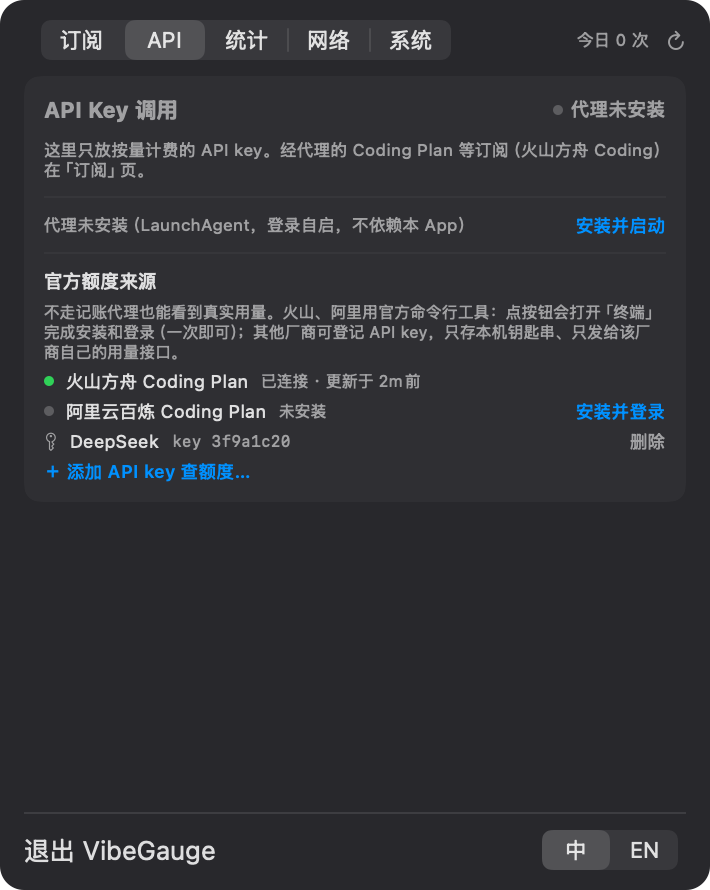
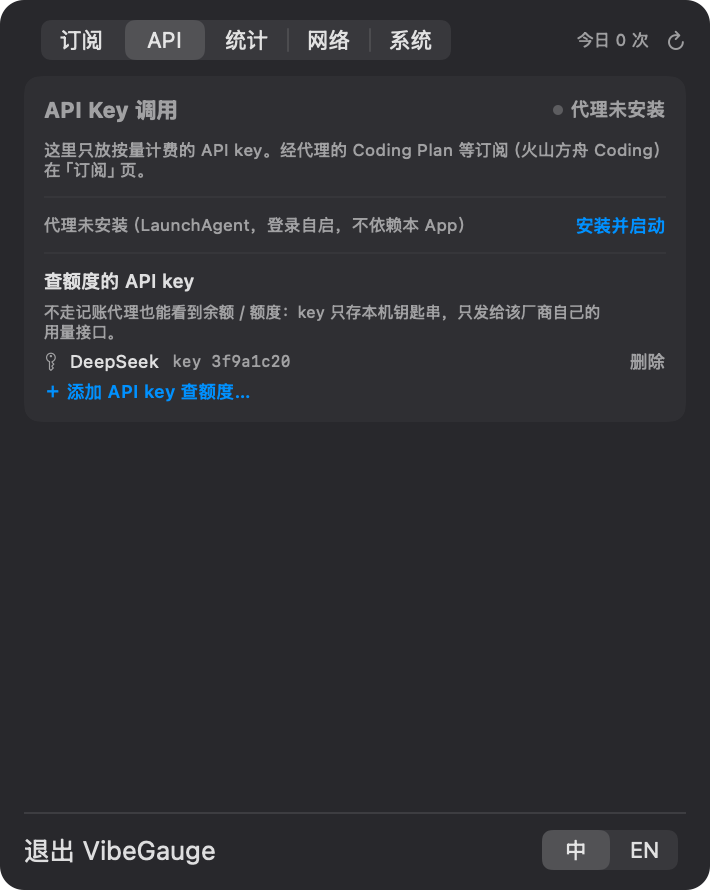
fix: Coding Plan official-CLI rows live on the Plans tab; API tab keeps key registration
Plan rows show only when a matching plan card exists or the CLI is
installed; otherwise a single link reveals them.

Changed region(s): [[0.062, 0.3337, 0.9296, 0.5461], [0.062, 0.3034, 0.2789, 0.3337], [0.8056, 0.4551, 0.9296, 0.5157]]

diff --git a/Sources/DashboardView.swift b/Sources/DashboardView.swift
@@ -188,6 +188,7 @@ public struct DashboardView: View {
 
     /// 截图 / 预览用：只显示灌进来的演示数据，不启动实时刷新 —— 读不到本机任何真实用量（tools/screenshots.swift）
     private var isDemo = false
+    @State private var showAllPlanSources = false
 
     init(demo report: ScanReport, history: UsageHistory.Snapshot, network: NetworkSnapshot, drillDown: String? = nil) {
         self.init(store: ReportStore(report), settings: PanelSettings(autoClean: true, launchAtLogin: true), actions: PanelActions())
@@ -715,6 +716,8 @@ public struct DashboardView: View {
                 }
             }
 
+            planSourceRows
+
             if !report.pending.isEmpty {
                 Divider().opacity(0.35)
                 pendingSection(report.pending)
@@ -982,7 +985,7 @@ public struct DashboardView: View {
             }
 
             Divider().opacity(0.35)
-            officialQuotaRows
+            keySourceRows
         }
         .padding(10)
         .background(Color.secondary.opacity(0.06))
@@ -1091,18 +1094,17 @@ public struct DashboardView: View {
         .cornerRadius(8)
     }
 
-    /// 官方额度来源：不经代理也能看到订阅 / 余额的真值
-    private var officialQuotaRows: some View {
-        VStack(alignment: .leading, spacing: 4) {
-            Text(L("官方额度来源", "Official quota sources")).font(.system(size: 9.5, weight: .medium))
-            Text(L("不走记账代理也能看到真实用量。火山、阿里用官方命令行工具：点按钮会打开「终端」完成安装和登录（一次即可）；其他厂商可登记 API key，只存本机钥匙串、只发给该厂商自己的用量接口。",
-                   "See real usage without the proxy. Volcengine and Alibaba use their official CLIs: the button opens Terminal to install and sign in (once). For other providers, add an API key: it stays in your Keychain and goes only to that provider's own usage endpoint."))
-                .font(.system(size: 8)).foregroundColor(.secondary).fixedSize(horizontal: false, vertical: true)
-            ForEach(OfficialCLI.allCases, id: \.self) { c in
-                let st: OfficialQuota.CLIState = isDemo ? (c == .ark ? .connected(CLIQuota(), at: nowTS - 120) : .notInstalled) : OfficialQuota.shared.state(c)
+    /// 订阅页：火山 / 阿里 Coding Plan 的官方额度（官方 CLI）。有对应订阅卡或已装 CLI 才列出，否则只留一个入口
+    private var planSourceRows: some View {
+        let shown = OfficialCLI.allCases.filter { c in
+            isDemo ? c == .ark : (showAllPlanSources || Self.cliRelevant(c, cards: planCards))
+        }
+        return VStack(alignment: .leading, spacing: 4) {
+            ForEach(shown, id: \.self) { c in
+                let st: OfficialQuota.CLIState = isDemo ? .notInstalled : OfficialQuota.shared.state(c)
                 HStack(spacing: 6) {
                     Circle().fill(st.isConnected ? Color.green : Color.secondary.opacity(0.4)).frame(width: 5, height: 5)
-                    Text(c.title).font(.system(size: 9))
+                    Text(L("\(c.title) 官方额度", "\(c.title) official quota")).font(.system(size: 9))
                     Text(st.text(nowTS)).font(.system(size: 8)).foregroundColor(.secondary).lineLimit(1)
                     Spacer()
                     if !st.isConnected {
@@ -1111,7 +1113,31 @@ public struct DashboardView: View {
                         }.buttonStyle(.plain).foregroundColor(.blue)
                     }
                 }
+                .help(L("用厂商官方命令行工具读取套餐真实用量：点按钮会打开「终端」完成安装和登录（一次即可），凭据由它自己保管",
+                        "Reads the plan's real usage with the provider's official CLI. The button opens Terminal to install and sign in (once); the CLI keeps its own credentials"))
             }
+            if shown.count < OfficialCLI.allCases.count {
+                Button { showAllPlanSources = true } label: {
+                    Text(L("有火山 / 阿里 Coding Plan？连接官方额度", "Volcengine / Alibaba Coding Plan? Connect official quota"))
+                        .font(.system(size: 8.5))
+                }.buttonStyle(.plain).foregroundColor(.blue)
+            }
+        }
+    }
+
+    static func cliRelevant(_ c: OfficialCLI, cards: [DetectedLLMRuntime]) -> Bool {
+        if case .connected = OfficialQuota.shared.state(c) { return true }
+        if OfficialQuota.binary(c.bin) != nil { return true }
+        return cards.contains { $0.cardID.contains(c.provider) || $0.cardID.contains(c.host) || (c == .bailian && $0.cardID.contains("coding.dashscope")) }
+    }
+
+    /// API 页：登记 API key 查额度 / 余额（按量 key 的厂商接口）
+    private var keySourceRows: some View {
+        VStack(alignment: .leading, spacing: 4) {
+            Text(L("查额度的 API key", "API keys for quota")).font(.system(size: 9.5, weight: .medium))
+            Text(L("不走记账代理也能看到余额 / 额度：key 只存本机钥匙串，只发给该厂商自己的用量接口。",
+                   "See balance / quota without the proxy: the key stays in your Keychain and goes only to that provider's own usage endpoint."))
+                .font(.system(size: 8)).foregroundColor(.secondary).fixedSize(horizontal: false, vertical: true)
             let keys = isDemo ? [OfficialQuota.RegisteredKey(account: "api.deepseek.com#3f9a1c20", host: "api.deepseek.com", fingerprint: "3f9a1c20", name: "DeepSeek")]
                               : OfficialQuota.shared.registered()
             ForEach(keys) { k in

diff --git a/docs/PROTOCOL.md b/docs/PROTOCOL.md
@@ -135,7 +135,7 @@ Proxies before 1.2 keyed entries by host only. The proxy drops those entries whe
 Two more sources feed the same cards, refreshed every 5 minutes on a background queue (every 20 s for 10 minutes after you click a connect button). Their results live only in memory.
 
 - **Registered API keys** (API tab → "Add an API key for quota"): for GLM (`open.bigmodel.cn`), Z.ai (`api.z.ai`), MiniMax (`api.minimaxi.com`), DeepSeek (`api.deepseek.com`), OpenRouter (`openrouter.ai`), and Moonshot (`api.moonshot.cn`). The key is stored as a Keychain generic password (service `com.haifeng.vibegauge.usage-key`, account `<host>#<fingerprint>`, where the fingerprint is `sha256("Bearer " + key)[:8]`, the same as the proxy's) and nowhere else. The app runs `/usr/bin/python3 vibegauge-proxy.py --probe` from its bundle and passes `{"host", "key"}` on stdin (never argv); the helper calls only that provider's own usage / balance endpoint and prints one entry shaped like an `api-quota.json` value. It is merged with `api-quota.json` under the same key, newest `captured_at` winning. After an app update macOS may ask once to let the new build read the key; if you deny, the app does not ask again until it restarts.
-- **Official CLIs**: Volcengine Ark `arkcli usage plan --product coding-plan --format json` (`items[].periods[]`: `label` `session`/`5h`, `weekly`, `monthly`; `percent` 0–100; `reset_at` RFC 3339; `subscribed: false` or an empty list = no subscription; errors in `{ok: false, error: {message}}` or `items[].error`) and Alibaba Model Studio `bl usage coding-plan --output json` (`per5Hour`, `perWeek`, `perBillMonth`, each `usedQuota`, `totalQuota`, `percentage` 0–1, `resetTime` in seconds or milliseconds; `{}` = no subscription). The app looks for the binaries in `~/.local/bin`, `/opt/homebrew/bin`, `/usr/local/bin`, `~/.npm-global/bin`, `~/.volta/bin`, `~/.bun/bin`, and `~/.nvm/versions/node/*/bin`, runs them with those directories on `PATH` and a 25 s timeout, and never passes credentials: the CLIs use their own sign-in. The connect button writes `connect-<ark|bailian>.command` (0700) and opens it in Terminal: it installs the CLI if missing (`CI=1 npm install -g @volcengine/ark-cli@latest`, or the official `install.sh` with `BAILIAN_SKIP_SKILL_INIT=1`, so neither installer adds skills to your other AI tools), then runs `arkcli auth login volc-sso` / `bl auth login --console`.
+- **Official CLIs**: Volcengine Ark `arkcli usage plan --product coding-plan --format json` (`items[].periods[]`: `label` `session`/`5h`, `weekly`, `monthly`; `percent` 0–100; `reset_at` RFC 3339; `subscribed: false` or an empty list = no subscription; errors in `{ok: false, error: {message}}` or `items[].error`) and Alibaba Model Studio `bl usage coding-plan --output json` (`per5Hour`, `perWeek`, `perBillMonth`, each `usedQuota`, `totalQuota`, `percentage` 0–1, `resetTime` in seconds or milliseconds; `{}` = no subscription). The app looks for the binaries in `~/.local/bin`, `/opt/homebrew/bin`, `/usr/local/bin`, `~/.npm-global/bin`, `~/.volta/bin`, `~/.bun/bin`, and `~/.nvm/versions/node/*/bin`, runs them with those directories on `PATH` and a 25 s timeout, and never passes credentials: the CLIs use their own sign-in. The rows sit on the Plans tab, shown when a matching plan card exists or the CLI is installed (otherwise one link reveals them). The connect button writes `connect-<ark|bailian>.command` (0700) and opens it in Terminal: it installs the CLI if missing (`CI=1 npm install -g @volcengine/ark-cli@latest`, or the official `install.sh` with `BAILIAN_SKIP_SKILL_INIT=1`, so neither installer adds skills to your other AI tools), then runs `arkcli auth login volc-sso` / `bl auth login --console`.
 
 A CLI result replaces the local estimate on every card for that plan (Volcengine: provider `火山方舟 Coding`; Alibaba: host `coding.dashscope…`) and creates a subscription card if there is none; the card shows "Official CLI · <bin>". Per-model pools from `plans.json` are dropped then, because the official figure is for the whole plan. Tencent Cloud personal plans have no official usage interface and are not supported.
 
